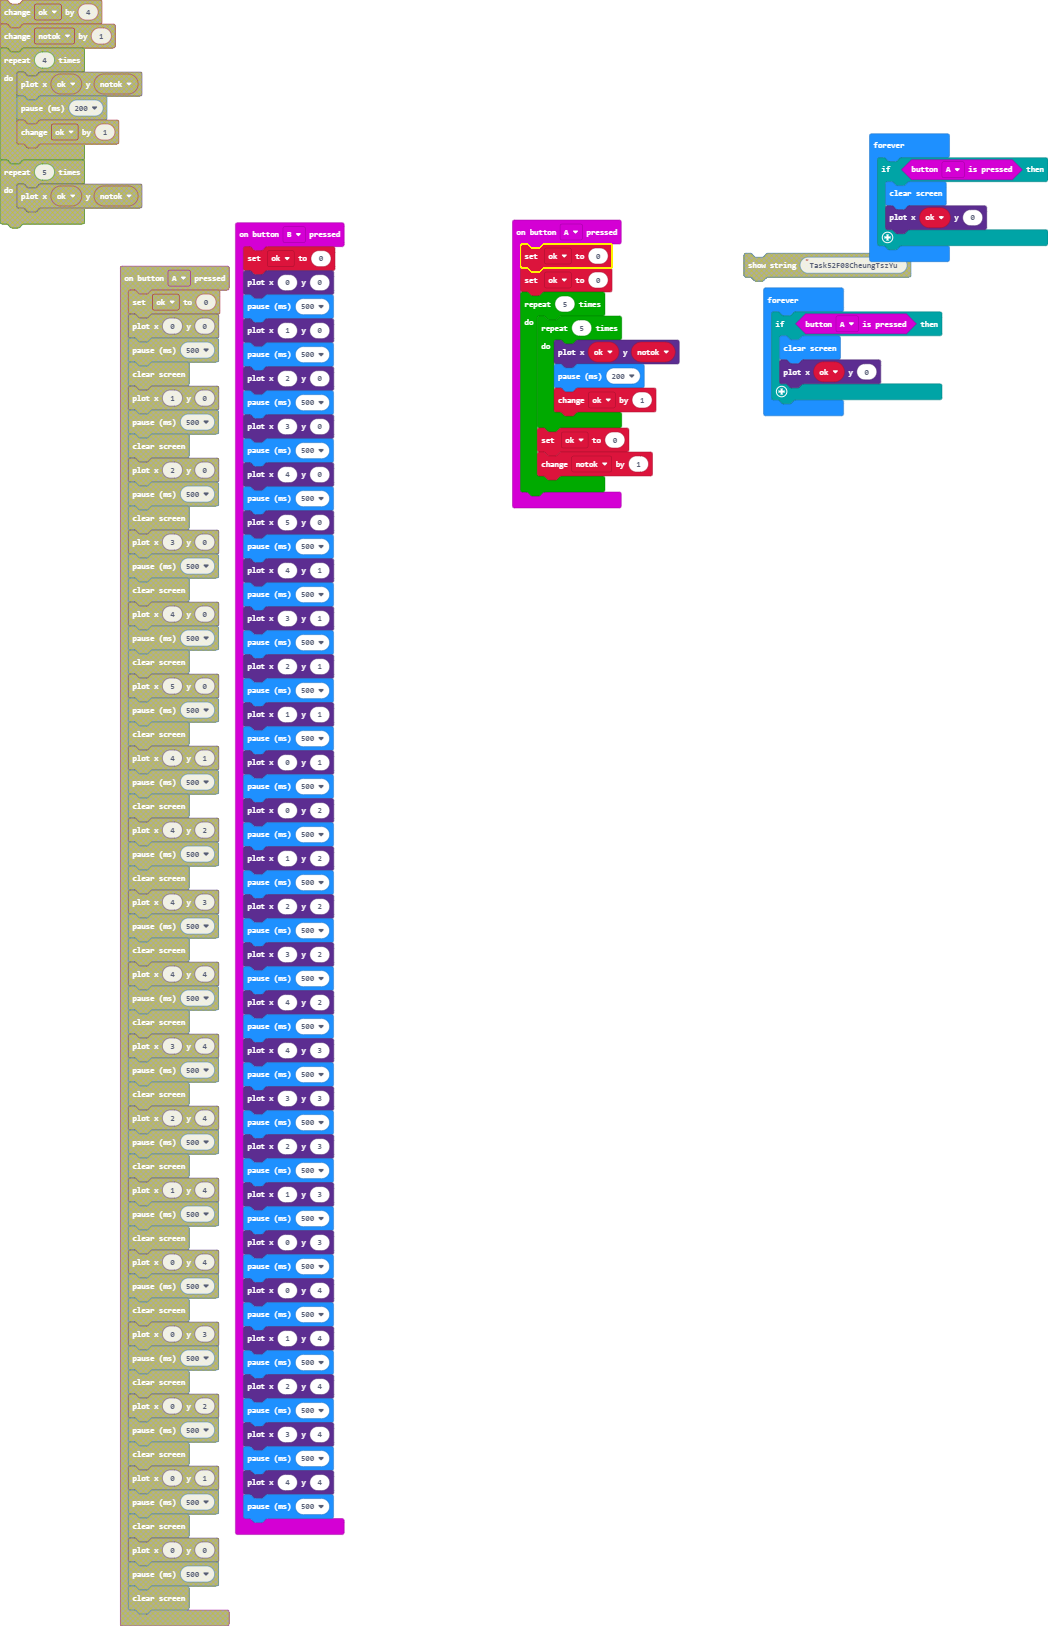
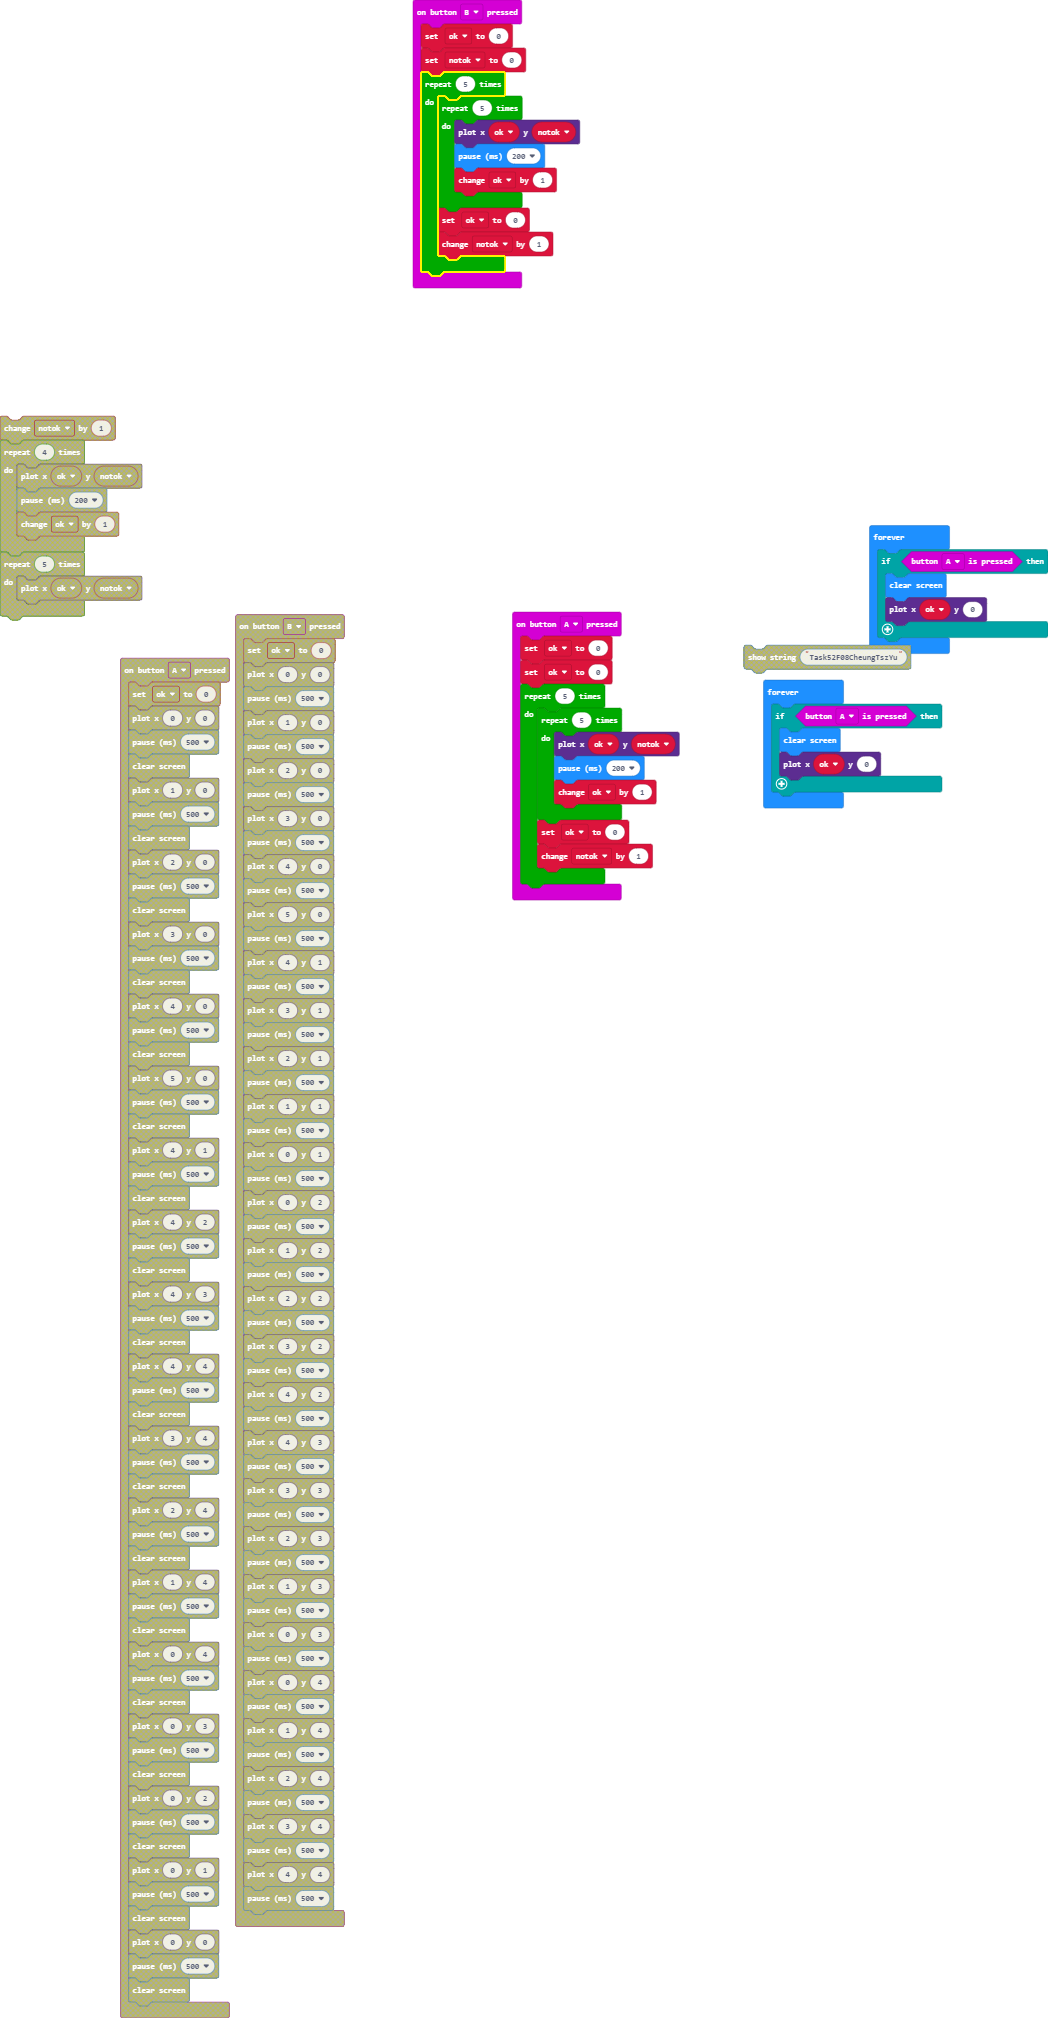
Update main.blocks, main.ts

Changed region(s): [[0.0, 0.0, 0.3359, 1.0], [0.7023, 0.0615, 1.0, 0.3998], [0.3664, 0.0, 0.6412, 0.4613]]

diff --git a/main.ts b/main.ts
@@ -15,58 +15,16 @@ input.onButtonPressed(Button.A, function () {
 })
 input.onButtonPressed(Button.B, function () {
     ok = 0
-    led.plot(0, 0)
-    basic.pause(500)
-    led.plot(1, 0)
-    basic.pause(500)
-    led.plot(2, 0)
-    basic.pause(500)
-    led.plot(3, 0)
-    basic.pause(500)
-    led.plot(4, 0)
-    basic.pause(500)
-    led.plot(5, 0)
-    basic.pause(500)
-    led.plot(4, 1)
-    basic.pause(500)
-    led.plot(3, 1)
-    basic.pause(500)
-    led.plot(2, 1)
-    basic.pause(500)
-    led.plot(1, 1)
-    basic.pause(500)
-    led.plot(0, 1)
-    basic.pause(500)
-    led.plot(0, 2)
-    basic.pause(500)
-    led.plot(1, 2)
-    basic.pause(500)
-    led.plot(2, 2)
-    basic.pause(500)
-    led.plot(3, 2)
-    basic.pause(500)
-    led.plot(4, 2)
-    basic.pause(500)
-    led.plot(4, 3)
-    basic.pause(500)
-    led.plot(3, 3)
-    basic.pause(500)
-    led.plot(2, 3)
-    basic.pause(500)
-    led.plot(1, 3)
-    basic.pause(500)
-    led.plot(0, 3)
-    basic.pause(500)
-    led.plot(0, 4)
-    basic.pause(500)
-    led.plot(1, 4)
-    basic.pause(500)
-    led.plot(2, 4)
-    basic.pause(500)
-    led.plot(3, 4)
-    basic.pause(500)
-    led.plot(4, 4)
-    basic.pause(500)
+    notok = 0
+    for (let index = 0; index < 5; index++) {
+        for (let index = 0; index < 5; index++) {
+            led.plot(ok, notok)
+            basic.pause(200)
+            ok += 1
+        }
+        ok = 0
+        notok += 1
+    }
 })
 basic.forever(function () {
     if (input.buttonIsPressed(Button.A)) {
